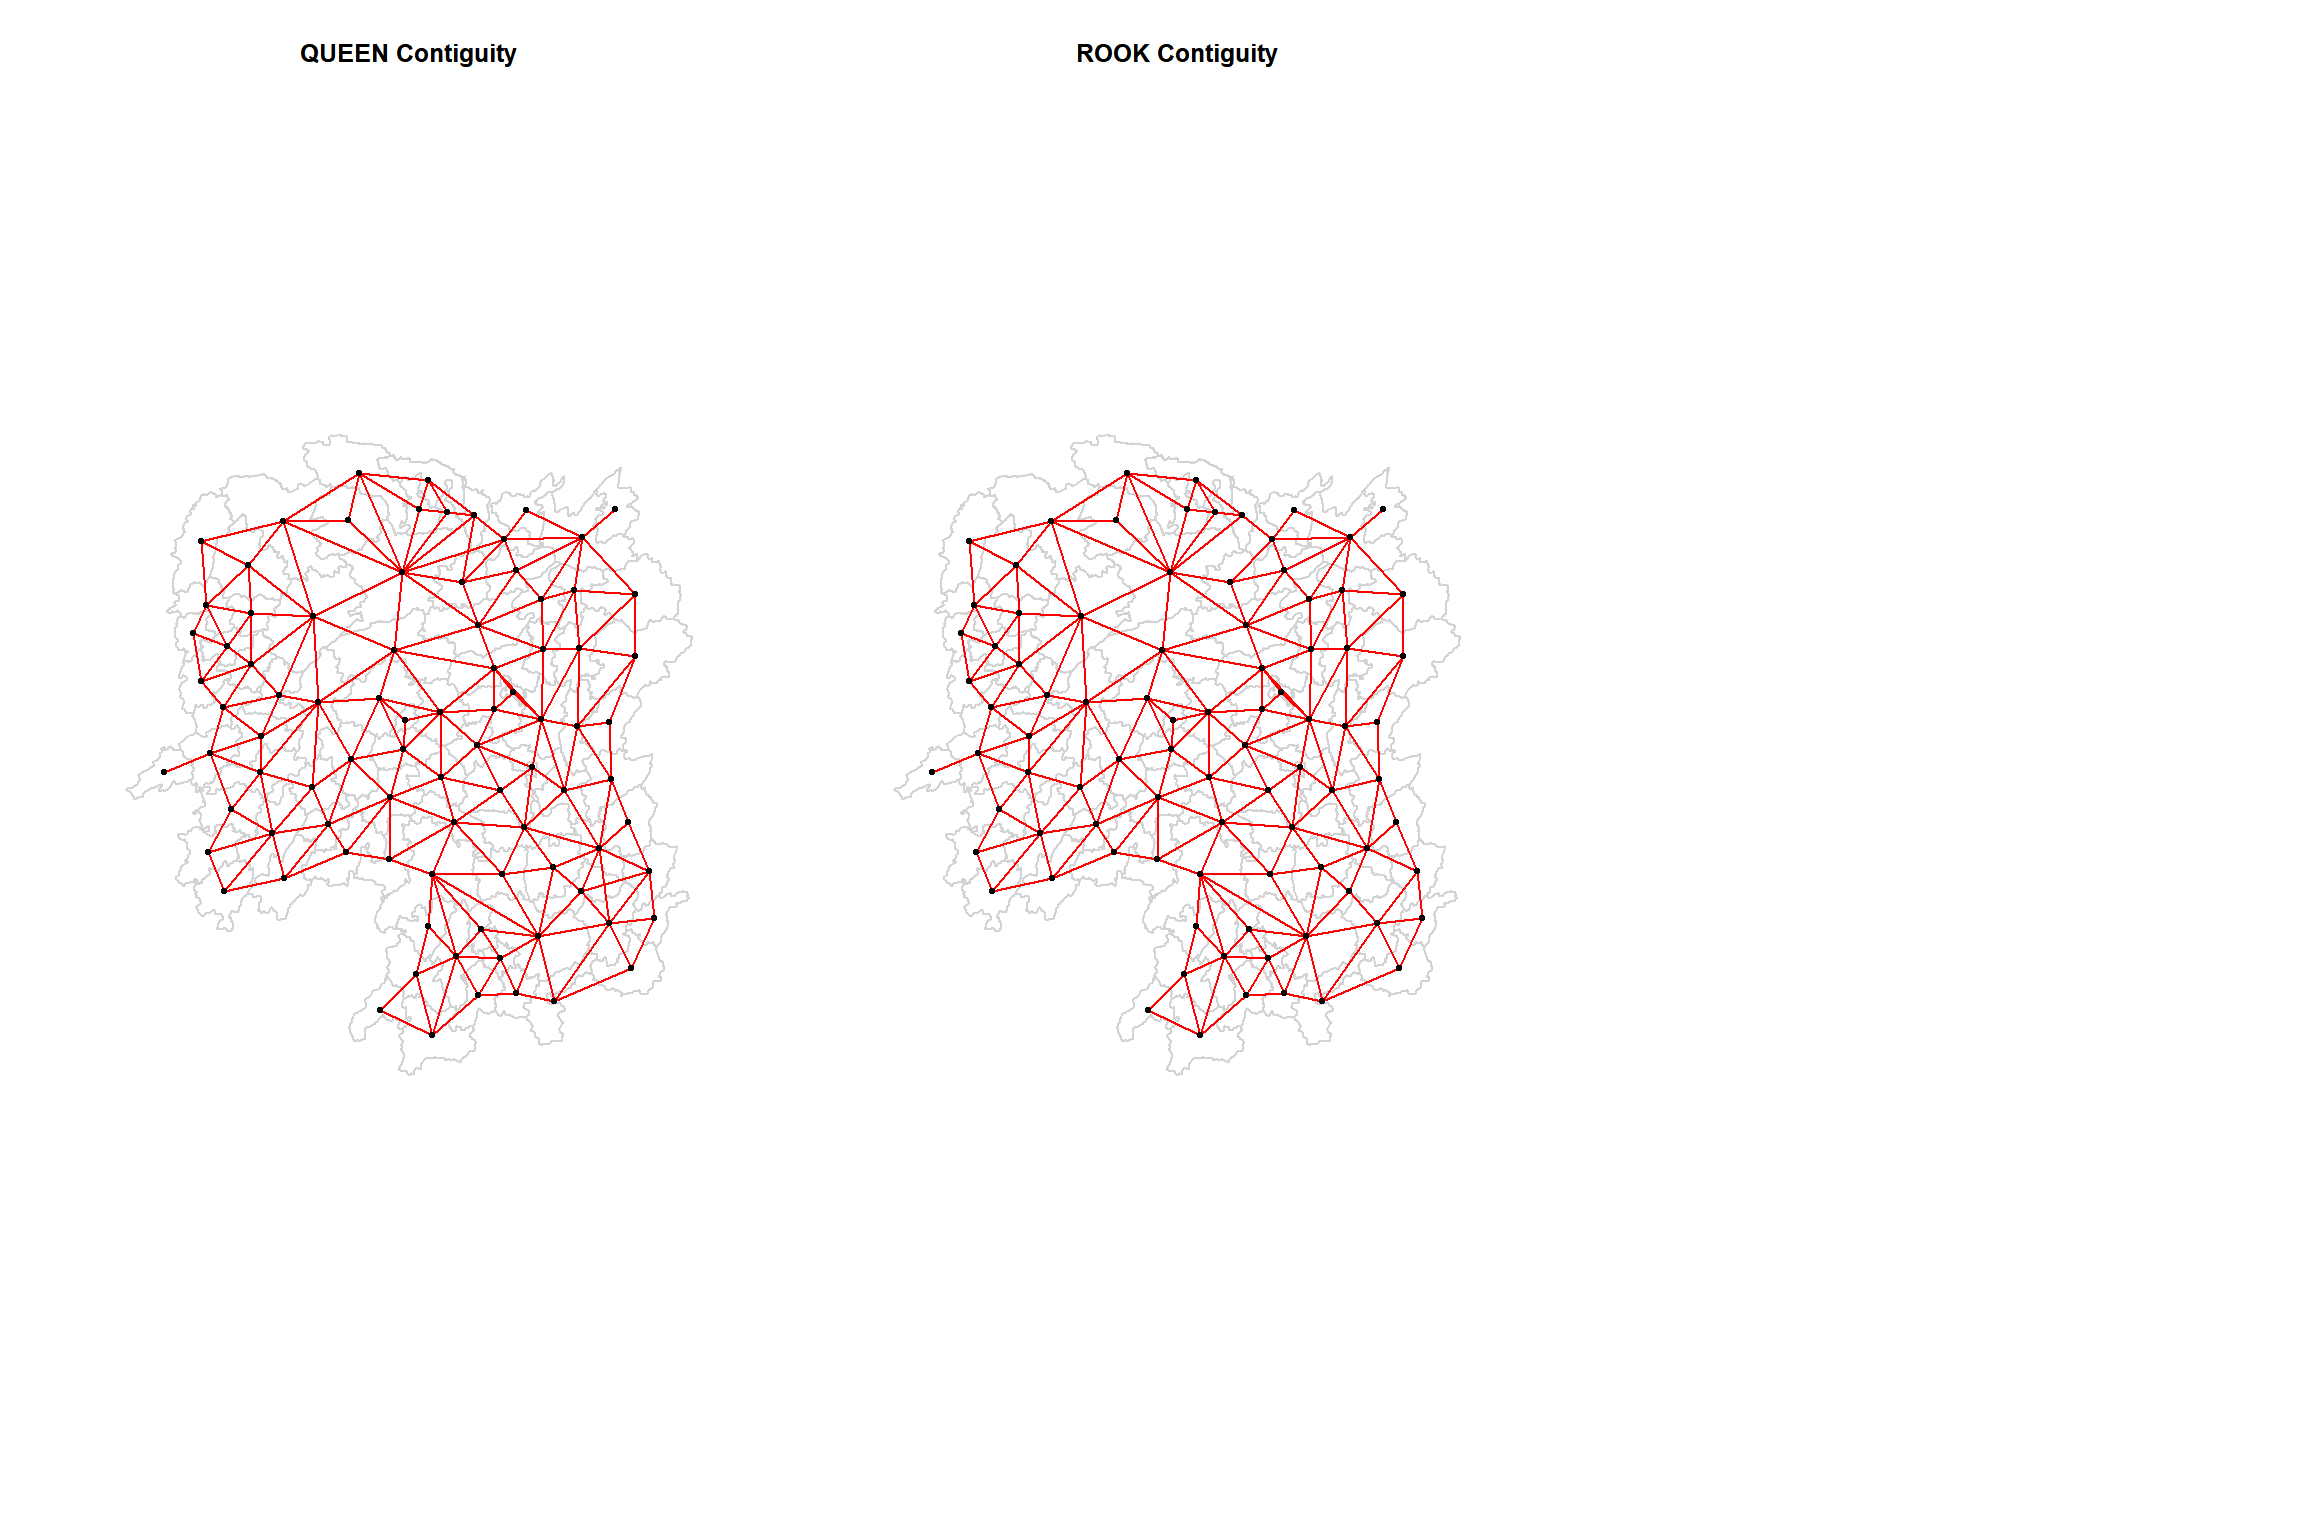
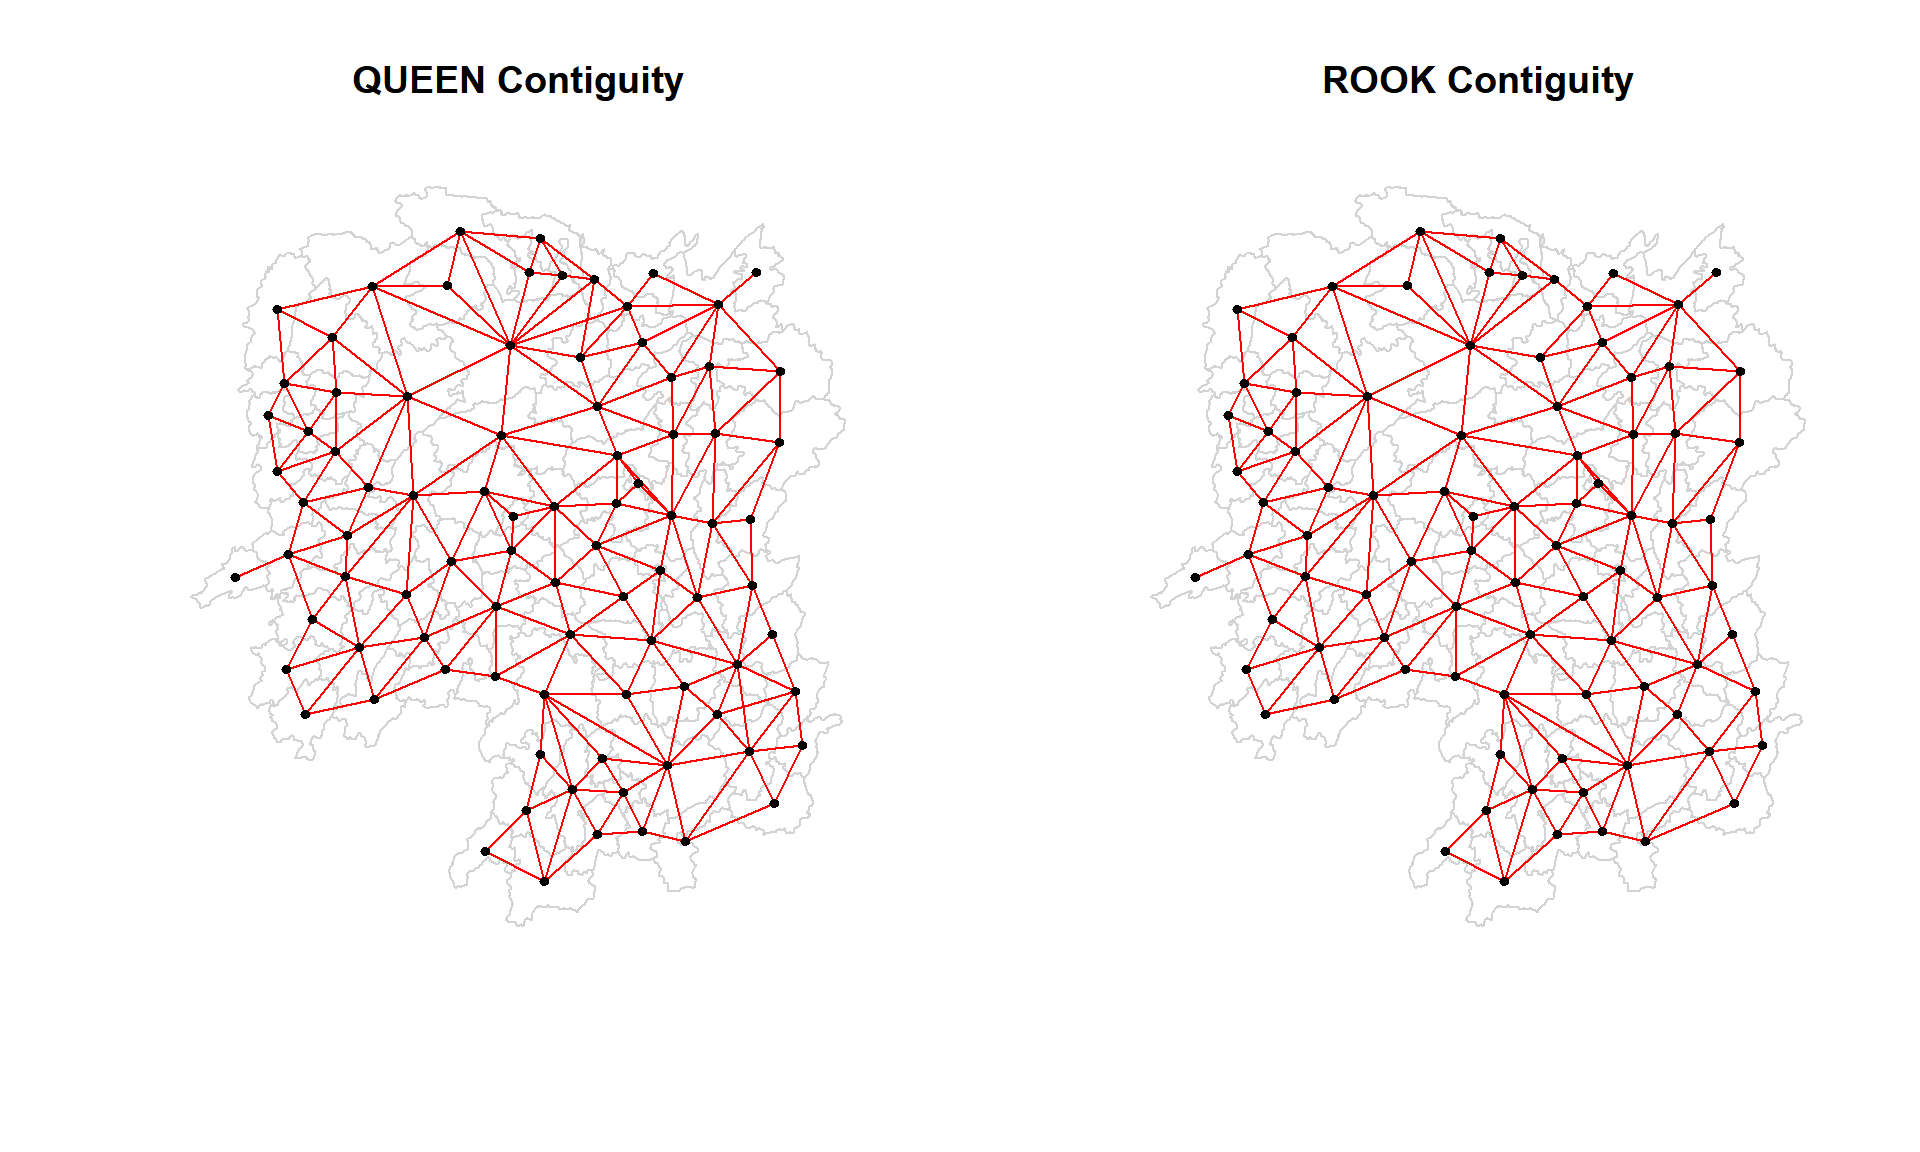
commit

diff --git a/_site/Hands-on_Ex/Hands-on_Ex04/Hands-on_Ex04.html b/_site/Hands-on_Ex/Hands-on_Ex04/Hands-on_Ex04.html
@@ -1022,7 +1022,7 @@ Note
 <div id="tabset-1-4" class="tab-pane" role="tabpanel" aria-labelledby="tabset-1-4-tab">
 <p>The code chunk below use plot() from base R to create two maps one for <strong>QUEEN</strong> contiguity based and one for <strong>ROOK</strong> contiguity based. It also overlays two sets of maps for <strong>comparison</strong>.</p>
 <div class="cell">
-<div class="code-copy-outer-scaffold"><div class="sourceCode" id="cb65"><pre class="downlit sourceCode r code-with-copy"><code class="sourceCode R"><span><span class="fu"><a href="https://rdrr.io/r/graphics/par.html">par</a></span><span class="op">(</span>mfrow <span class="op">=</span> <span class="fu"><a href="https://rdrr.io/r/base/c.html">c</a></span><span class="op">(</span><span class="fl">1</span>,<span class="fl">3</span><span class="op">)</span><span class="op">)</span></span>
+<div class="code-copy-outer-scaffold"><div class="sourceCode" id="cb65"><pre class="downlit sourceCode r code-with-copy"><code class="sourceCode R"><span><span class="fu"><a href="https://rdrr.io/r/graphics/par.html">par</a></span><span class="op">(</span>mfrow <span class="op">=</span> <span class="fu"><a href="https://rdrr.io/r/base/c.html">c</a></span><span class="op">(</span><span class="fl">1</span>,<span class="fl">2</span><span class="op">)</span><span class="op">)</span></span>
 <span></span>
 <span><span class="fu"><a href="https://rdrr.io/r/graphics/plot.default.html">plot</a></span><span class="op">(</span><span class="va">hunan</span><span class="op">$</span><span class="va">geometry</span>, border <span class="op">=</span> <span class="st">"lightgrey"</span>,</span>
 <span>     main <span class="op">=</span> <span class="st">"QUEEN Contiguity"</span><span class="op">)</span> <span class="co"># countries base map</span></span>
@@ -1043,7 +1043,7 @@ Note
 <span>     col <span class="op">=</span> <span class="st">"red"</span><span class="op">)</span> <span class="co"># connecting line in red</span></span></code></pre></div><button title="Copy to Clipboard" class="code-copy-button"><i class="bi"></i></button></div>
 <div class="cell-output-display">
 <div>
-<figure class="figure"><p><img src="Hands-on_Ex04_files/figure-html/unnamed-chunk-20-1.png" class="img-fluid figure-img" width="1152"></p>
+<figure class="figure"><p><img src="Hands-on_Ex04_files/figure-html/unnamed-chunk-20-1.png" class="img-fluid figure-img" width="960"></p>
 </figure>
 </div>
 </div>
@@ -1073,8 +1073,9 @@ Note
 </div>
 </div>
 </div>
+<p>Here we visualise <code><a href="https://rdrr.io/r/base/sets.html">setdiff()</a></code> differences in connectivity between Queen and Rook contiguity.</p>
 <p>The comparison map above highlights the additional <strong>4</strong> neighbour links (equally unidirectional 8 nonzero entries), captured by Queen in blue.</p>
-<p>Here we visualise <code><a href="https://rdrr.io/r/base/sets.html">setdiff()</a></code> differences in connectivity between Queen and Rook contiguity. The most connected region, Taoyuan (in the north), has 11 neighbours under Queen and 10 under Rook. One corner-touching neighbour is excluded in the Rook method due to its definition. Similar differences can also be observed in the lower northeast part of the province, where Queen contiguity identifies additional vertex-based neighbours that Rook does not.</p>
+<p>The most connected region, Taoyuan (in the north), has 11 neighbours under Queen and 10 under Rook. One corner-touching neighbour is excluded in the Rook method due to its definition. Similar differences can also be observed in the lower northeast part of the province, where Queen contiguity identifies additional vertex-based neighbours that Rook does not.</p>
 </div>
 </div>
 </div>
